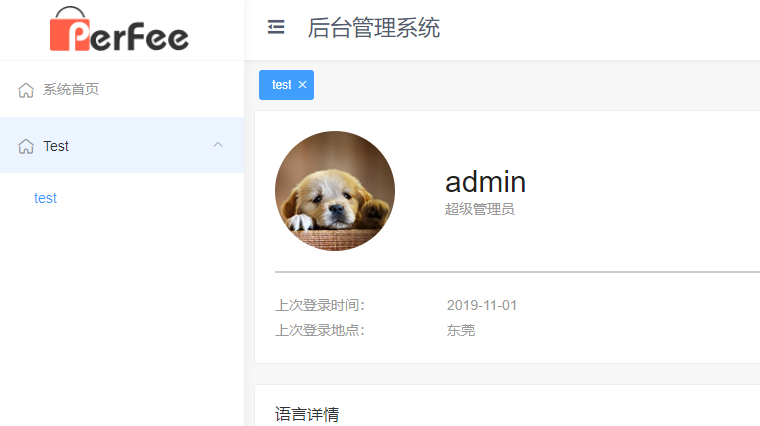
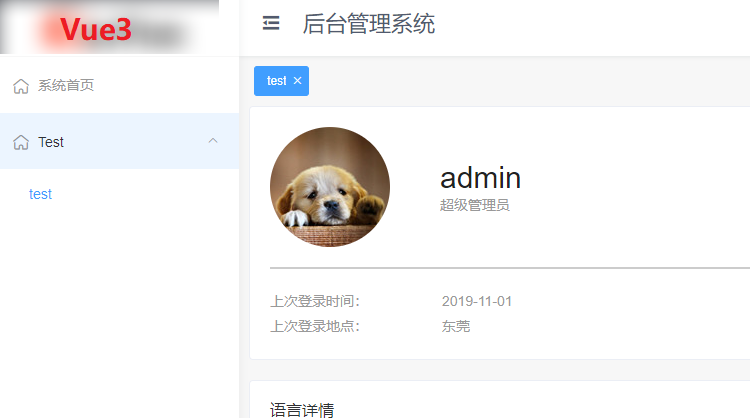
标志

diff --git a/README.md b/README.md
@@ -1,4 +1,4 @@
-## PerFee 物流后台
+## 管理后台
 项目使用Vue3 + element-plus构建
 
 ### 相关文档：
